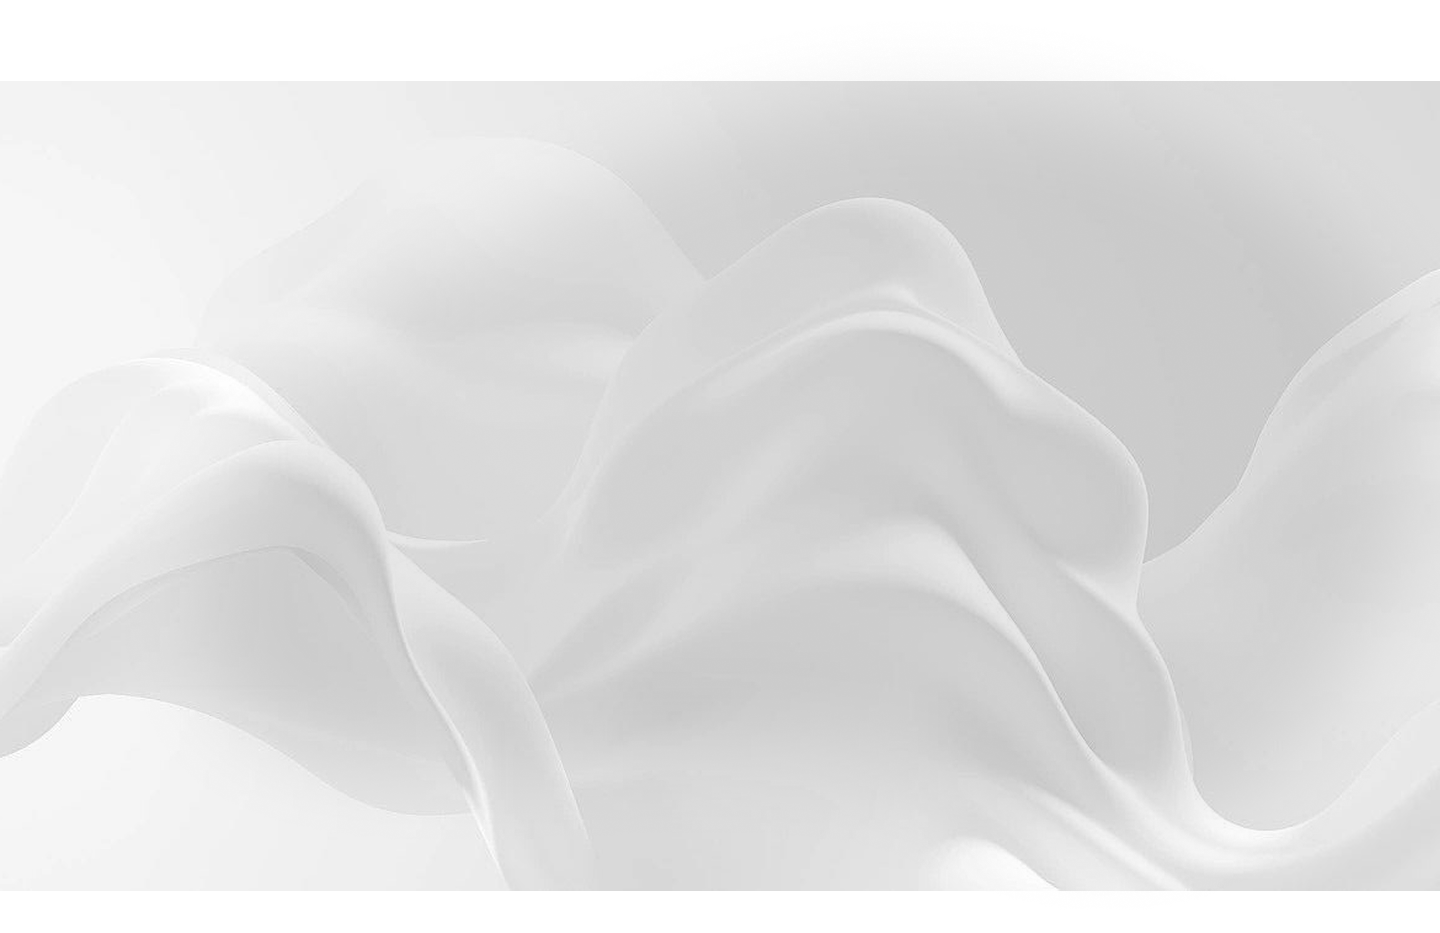
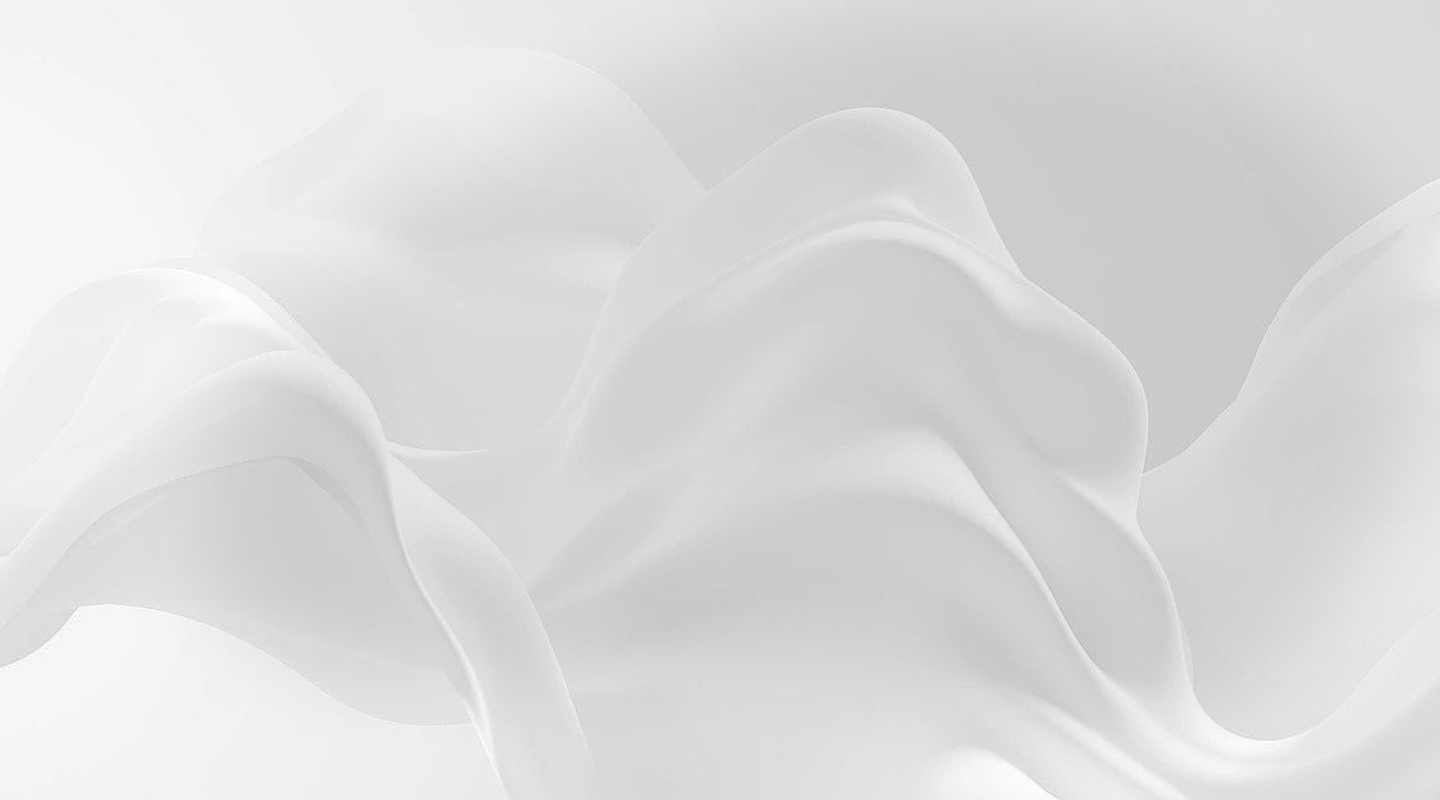
feat: improve navbar and header design in website

diff --git a/src/pages/website/components/Navbar.jsx b/src/pages/website/components/Navbar.jsx
@@ -1,35 +1,75 @@
 import React from "react";
+import { NavLink } from "react-router-dom";
+import SearchBar from "./SearchBar";
+
+const navLinks = [
+  { label: "صفحه نخست", path: "/Home-website" },
+  { label: "درباره ما", path: "/about-website" },
+  { label: "فروشگاه", path: "/shop-website" },
+  { label: "قوانین و مقررات", path: "/rules-website" },
+];
 
 const Navbar = () => {
   return (
-    <nav className="w-full px-6 py-3 shadow-md rounded-b-2xl bg-white flex items-center justify-between">
+    <nav className="fixed top-0 left-0 w-full h-20 z-50 bg-gradient-to-l from-white to-gray-100 shadow-md rounded-b-3xl flex items-center justify-between px-6">
       {/* سمت راست - لینکها */}
-      <div className="flex gap-6 text-gray-700 text-sm font-medium">
-        <a href="#">صفحه نخست</a>
-        <a href="#">درباره ما</a>
-        <a href="#">فروشگاه</a>
-        <a href="#">قوانین و مقررات</a>
+      <div className="flex gap-8 text-gray-700 text-base font-medium">
+        {navLinks.map(({ label, path }) => (
+          <NavLink
+            key={path}
+            to={path}
+            className={({ isActive }) =>
+              `relative transition-all duration-300 group py-1 ${
+                isActive ? "text-black font-semibold" : "text-gray-700"
+              }`
+            }
+          >
+            {({ isActive }) => (
+              <>
+                {label}
+                <span className="absolute bottom-0 left-0 right-0 h-[2px] bg-black origin-center transition-all duration-300 ease-in-out scale-x-0 group-hover:scale-x-100" />
+                <span
+                  className={`absolute bottom-0 left-0 right-0 h-[2px] bg-black origin-center transition-all duration-300 ease-in-out ${
+                    isActive ? "scale-x-100" : "scale-x-0"
+                  }`}
+                />
+              </>
+            )}
+          </NavLink>
+        ))}
       </div>
 
       {/* وسط - سرچبار */}
-      <div className="flex items-center bg-gray-100 px-4 py-1 rounded-full w-96">
-        <input
-          type="text"
-          placeholder="نام کالا یا محصول مورد نظر خود را جستوجو کنید..."
-          className="bg-transparent w-full text-right outline-none text-sm"
-        />
-        <div className="ml-2">
-          {/* جای آیکن سرچ */}
-          <span className="w-5 h-5 bg-gray-300 rounded"></span>
-        </div>
+      <div className="flex justify-center px-4 w-80">
+        <SearchBar />
       </div>
 
       {/* سمت چپ - آیکونها */}
-      <div className="flex items-center gap-4">
-        {/* آیکونها بعدا با props یا import میاد */}
-        <span className="w-6 h-6 bg-gray-300 rounded"></span> {/* Hamburger */}
-        <span className="w-6 h-6 bg-gray-300 rounded"></span> {/* Profile */}
-        <span className="w-6 h-6 bg-gray-300 rounded"></span> {/* Cart */}
+      <div className="flex items-center gap-6">
+        <NavLink 
+          to="/account" 
+          className="flex items-center justify-center w-8 h-8 hover:bg-gray-200 rounded-full transition-colors duration-300"
+        >
+          <img 
+            src="/website/icons8-user-24 1.png" 
+            alt="حساب کاربری" 
+            className="w-6 h-6 object-contain"
+          />
+        </NavLink>
+        
+        <NavLink 
+          to="/cart" 
+          className="flex items-center justify-center w-8 h-8 hover:bg-gray-200 rounded-full transition-colors duration-300 relative"
+        >
+          <img 
+            src="/website/icons8-shopping-cart-64 1.png" 
+            alt="سبد خرید" 
+            className="w-6 h-6 object-contain"
+          />
+          <span className="absolute -top-1 -right-1 bg-red-500 text-white text-xs rounded-full w-5 h-5 flex items-center justify-center">
+            0
+          </span>
+        </NavLink>
       </div>
     </nav>
   );

diff --git a/src/pages/website/components/Header.jsx b/src/pages/website/components/Header.jsx
@@ -1,44 +1,41 @@
-import React, { useEffect, useState } from "react";
+import React from "react";
 
 const Header = () => {
-  const [backgroundImage, setBackgroundImage] = useState("/website/Group 432.png");
-  const [logoImage, setLogoImage] = useState("/website/Picsart_25-04-16_19-30-26-995 1.png");
-  const [storeName, setStoreName] = useState("ویترین");
-  const [subSlogan, setSubSlogan] = useState(
-    "خرید امن محصولات اینترنتی با کیفیت و بهترین قیمت در سریعترین زمان ممکن"
-  );
-
+  const backgroundImage = "/website/Group 432.png";
+  const logoImage = "/website/Picsart_25-04-16_19-30-26-995 1.png";
+  const storeName = "ویترین";
+  const subSlogan =
+    "خرید امن محصولات اینترنتی با کیفیت و بهترین قیمت در سریعترین زمان ممکن";
+  
   return (
-    <div className="relative w-full">
-      {/* عکس بکگراند */}
-      <img src={backgroundImage} alt="هدر سایت" className="w-full object-cover" />
-
-      {/* محتوای روی عکس */}
-      <div className="absolute inset-0 flex flex-col items-center justify-center text-center px-4  z-10">
-
-        {/* لوگو + نام فروشگاه */}
-        <div className="flex items-center justify-center gap-2 mb-4">
+    <div className="relative w-full h-[calc(100vh-5rem)]  font-rubik">
+      {/* بکگراند */}
+      <img
+        src={backgroundImage}
+        alt="هدر سایت"
+        className="w-full h-full object-cover absolute top-0 left-0 z-0"
+      />
+      {/* محتوا */}
+      <div className="absolute inset-0 flex flex-col items-start justify-center text-right px-4 z-10 mr-32">
+        {/* لوگو و نام */}
+        <div className="flex items-end mb-6">
           <img
             src={logoImage}
             alt="لوگو فروشگاه"
-            className="w-12 h-12"
+            className="w-14 h-14 mt-8 ml-2 "
+            style={{ alignSelf: 'flex-end' }}
           />
-          <h1 className="text-3xl font-bold text-gray-800 drop-shadow">
-            فروشگاه اینترنتی <span className="text-black">{storeName}</span>
+          <h1 className="text-4xl font-bold text-black">
+            فروشگاه اینترنتی <span className="">{storeName}</span>
           </h1>
         </div>
-
-        {/* شعار با دایره */}
-        <div className="relative flex items-center justify-center gap-2">
-          {/* دایره محو مشکی */}
-          <div className="w-2 h-2 rounded-full bg-black blur-sm opacity-80"></div>
-          <p className="text-lg text-gray-700 drop-shadow">{subSlogan}</p>
-        </div>
-
-        {/* دو خط ناهماهنگ زیر شعار */}
-        <div className="mt-4 flex flex-col items-center gap-1">
-          <div className="w-36 h-px bg-gray-500 opacity-70"></div>
-          <div className="w-24 h-px bg-gray-400 opacity-60 translate-x-4"></div>
+        {/* شعار */}
+        <div className="mt-20 mr-16 mb-6 flex flex-col items-start">
+          <p className="font-medium text-black text-lg">{subSlogan}</p>
+          <div className="relative mt-4 w-full max-w-lg h-8">
+            <div className="absolute w-[580px] h-px bg-black top-2 right-50"></div>
+            <div className="absolute w-96 h-px bg-black top-6 left-12"></div>
+          </div>
         </div>
       </div>
     </div>

diff --git a/src/pages/website/components/SearchBar.jsx b/src/pages/website/components/SearchBar.jsx
@@ -1,0 +1,50 @@
+
+// SearchBar.js
+import React, { useState } from "react";
+import { useNavigate } from "react-router-dom";
+
+const SearchBar = () => {
+  const [searchTerm, setSearchTerm] = useState("");
+  const navigate = useNavigate();
+
+  const handleSearch = (e) => {
+    e.preventDefault();
+    if (searchTerm.trim()) {
+      navigate(`/shop-website?search=${encodeURIComponent(searchTerm)}`);
+      setSearchTerm("");
+    }
+  };
+
+  return (
+    <form onSubmit={handleSearch} className="relative w-full">
+      <input
+        type="text"
+        value={searchTerm}
+        onChange={(e) => setSearchTerm(e.target.value)}
+        placeholder="جستجوی محصولات..."
+        className="w-full pr-12 pl-4 py-3 rounded-full border border-gray-300 focus:outline-none focus:ring-2 focus:ring-blue-500 focus:border-transparent text-base transition-all duration-300"
+      />
+      <button
+        type="submit"
+        className="absolute left-3 top-1/2 transform -translate-y-1/2 text-gray-500 hover:text-blue-600 transition-colors"
+      >
+        <svg
+          xmlns="http://www.w3.org/2000/svg"
+          className="h-6 w-6"
+          fill="none"
+          viewBox="0 0 24 24"
+          stroke="currentColor"
+        >
+          <path
+            strokeLinecap="round"
+            strokeLinejoin="round"
+            strokeWidth={2}
+            d="M21 21l-6-6m2-5a7 7 0 11-14 0 7 7 0 0114 0z"
+          />
+        </svg>
+      </button>
+    </form>
+  );
+};
+
+export default SearchBar;

diff --git a/src/App.jsx b/src/App.jsx
@@ -21,7 +21,11 @@ import Customers from "./pages/sellerPanel/Customers/Customers";
 import AddProductaPage from './pages/sellerPanel/AddProduct/AddProductaPage';
 import ShowProductaPage from './pages/sellerPanel/ShowProducts/ShowProductPage';
 import ShowCustomer from './pages/sellerPanel/Customers/CustomerDetails/ShowCustomer';
+
 import HomeWebsite from '../src/pages/website/pages/Home';
+import AboutWebsite from '../src/pages/website/pages/AboutWebsite';
+import ShopWebsite from '../src/pages/website/pages/ShopWebsite';
+import RulesWebsite from '../src/pages/website/pages/RulesWebsite';
 
 import '@fortawesome/fontawesome-free/css/all.min.css';
 
@@ -63,7 +67,10 @@ export default function App() {
 
 
 
-        <Route path="/Home" element={<HomeWebsite></HomeWebsite>}></Route>
+        <Route path="/Home-website" element={<HomeWebsite></HomeWebsite>}></Route>
+        <Route path="/about-website" element={<AboutWebsite />} />
+        <Route path="/shop-website" element={<ShopWebsite />} />
+        <Route path="/rules-website" element={<RulesWebsite />} />
       </Routes>
     </>
   );

diff --git a/src/pages/website/pages/Home.jsx b/src/pages/website/pages/Home.jsx
@@ -1,18 +1,15 @@
-import Navbar from '../components/Navbar'
-import Header from '../components/Header';
+
+// HomeWebsite.js
+import Navbar from "../components/Navbar";
+import Header from "../components/Header";
 
 const HomeWebsite = () => {
-
-
-    return (
-        <div>
-            <Navbar></Navbar>
-
-            <Header></Header>
-        </div>
-
-    )
-
-}
+  return (
+    <div className="relative h-screen overflow-hidden">
+      <Navbar />
+      <Header />
+    </div>
+  );
+};
 
 export default HomeWebsite;

diff --git a/src/pages/website/pages/RulesWebsite.jsx b/src/pages/website/pages/RulesWebsite.jsx
@@ -1,0 +1,17 @@
+import React from 'react';
+import Navbar from '../components/Navbar';
+import Header from '../components/Header';
+
+const RulesWebsite =()=>{
+
+  return (
+    <div className="relative">
+      <Navbar />
+      <Header />
+    </div>
+  );
+
+
+}
+
+export default RulesWebsite;

diff --git a/src/pages/website/pages/AboutWebsite.jsx b/src/pages/website/pages/AboutWebsite.jsx
@@ -1,0 +1,16 @@
+import React from 'react';
+import Navbar from '../components/Navbar';
+import Header from '../components/Header';
+const AboutWebsite =()=>{
+
+  return (
+    <div className="relative">
+      <Navbar />
+      <Header />
+    </div>
+  );
+
+
+}
+
+export default AboutWebsite;

diff --git a/src/pages/website/pages/ShopWebsite.jsx b/src/pages/website/pages/ShopWebsite.jsx
@@ -1,0 +1,16 @@
+import React from 'react';
+import Navbar from '../components/Navbar';
+import Header from '../components/Header';
+const ShopWebsite =()=>{
+
+  return (
+    <div className="relative">
+      <Navbar />
+      <Header />
+    </div>
+  );
+
+
+}
+
+export default ShopWebsite;
